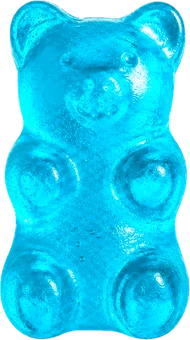
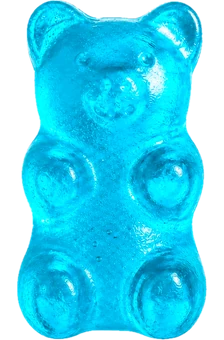
Calm the spin on impact, size the bears alike, and add five more
The wild spin was the collision. It took the head-on part of a blow and
multiplied it by six with nothing to cap it, so two bears meeting hard
could come out turning thousands of degrees a second. Spin now comes off
the glancing part instead — two bears meeting square should stop, not
pirouette — at a fraction of the rate, and is clamped both per hit and
in total, so a scrum cannot wind one up. A throw's own spin came down
with it, and spin bleeds off faster. Measured across a hard throw into
the pack: the fastest anything turns is now under half a turn a second,
against thousands before.

They are all one size. That needed the images fixed, not the CSS:
trimmed to their own edges the two bear shots had two aspect ratios, so
a single width rendered the narrower one taller. tools/cutout.js takes a
box width now and pads each cut-out out to it, centred, so they share an
aspect ratio and one width really is one size. Every bear measures the
same on the page.

Fifteen of them, up from ten, spread around the headline rather than
piled at the corners — none of them meets it at 1440, 1200 or 1000px,
and the four that flank it still step aside on narrow screens, leaving
eleven.

Claude-Session: https://claude.ai/code/session_01PF86o1aScFveFhBRGSKkVz

diff --git a/index.html b/index.html
@@ -93,39 +93,54 @@
 
   <!-- HERO -->
   <section class="hero" aria-label="Introduction">
-    <!-- Real gummy bears, cut out to alpha. They float, and can be picked up,
-         thrown, and knocked into each other: js/hero-candy.js. Decorative, so
-         the whole layer is aria-hidden and every image has an empty alt. -->
+    <!-- Real gummy bears, cut out to alpha, all to one size. They float, and
+         can be picked up, thrown, and knocked into each other: js/hero-candy.js.
+         Decorative, so the layer is aria-hidden and every image has empty alt. -->
     <div class="hero-candy" id="heroCandy" aria-hidden="true">
-      <span class="cy" style="--x:3%;--y:11%;--w:6vw;--r:-14deg;--f:9s;--d:.10s">
-        <span class="cy-b"><span class="cy-s"><img class="cy-i" src="/assets/candy/gummy-red.webp" alt="" width="211" height="340" decoding="async" fetchpriority="low"></span></span>
+      <span class="cy" style="--x:2%;--y:15%;--r:-14deg;--f:9s;--d:.06s">
+        <span class="cy-b"><span class="cy-s"><img class="cy-i" src="/assets/candy/gummy-red.webp" alt="" width="224" height="340" decoding="async" fetchpriority="low"></span></span>
       </span>
-      <span class="cy" style="--x:19%;--y:4%;--w:4.2vw;--r:21deg;--f:11s;--d:.18s">
-        <span class="cy-b"><span class="cy-s"><img class="cy-i flip" src="/assets/candy/gummy-yellow.webp" alt="" width="211" height="340" decoding="async" fetchpriority="low"></span></span>
+      <span class="cy" style="--x:14%;--y:3%;--r:21deg;--f:11s;--d:.12s">
+        <span class="cy-b"><span class="cy-s"><img class="cy-i flip" src="/assets/candy/gummy-yellow.webp" alt="" width="224" height="340" decoding="async" fetchpriority="low"></span></span>
       </span>
-      <span class="cy" style="--rx:31%;--y:5%;--w:4.4vw;--r:-9deg;--f:8.5s;--d:.26s">
-        <span class="cy-b"><span class="cy-s"><img class="cy-i" src="/assets/candy/gummy-pink.webp" alt="" width="211" height="340" decoding="async" fetchpriority="low"></span></span>
+      <span class="cy" style="--x:28%;--y:13%;--r:-7deg;--f:8.5s;--d:.18s">
+        <span class="cy-b"><span class="cy-s"><img class="cy-i" src="/assets/candy/gummy-pink.webp" alt="" width="224" height="340" decoding="async" fetchpriority="low"></span></span>
       </span>
-      <span class="cy" style="--rx:6%;--y:13%;--w:6.4vw;--r:16deg;--f:10.5s;--d:.34s">
-        <span class="cy-b"><span class="cy-s"><img class="cy-i" src="/assets/candy/gummy-blue.webp" alt="" width="190" height="340" decoding="async" fetchpriority="low"></span></span>
+      <span class="cy" style="--rx:33%;--y:4%;--r:11deg;--f:10.5s;--d:.24s">
+        <span class="cy-b"><span class="cy-s"><img class="cy-i flip" src="/assets/candy/gummy-blue.webp" alt="" width="224" height="340" decoding="async" fetchpriority="low"></span></span>
       </span>
-      <span class="cy mid" style="--x:0%;--y:42%;--w:5vw;--r:24deg;--f:9.5s;--d:.42s">
-        <span class="cy-b"><span class="cy-s"><img class="cy-i flip" src="/assets/candy/gummy-orange.webp" alt="" width="211" height="340" decoding="async" fetchpriority="low"></span></span>
+      <span class="cy" style="--rx:19%;--y:14%;--r:-19deg;--f:12s;--d:.30s">
+        <span class="cy-b"><span class="cy-s"><img class="cy-i" src="/assets/candy/gummy-green.webp" alt="" width="224" height="340" decoding="async" fetchpriority="low"></span></span>
       </span>
-      <span class="cy mid" style="--rx:0%;--y:48%;--w:5.4vw;--r:-19deg;--f:12s;--d:.50s">
-        <span class="cy-b"><span class="cy-s"><img class="cy-i" src="/assets/candy/gummy-green.webp" alt="" width="190" height="340" decoding="async" fetchpriority="low"></span></span>
+      <span class="cy" style="--rx:3%;--y:6%;--r:16deg;--f:9.5s;--d:.36s">
+        <span class="cy-b"><span class="cy-s"><img class="cy-i flip" src="/assets/candy/gummy-orange.webp" alt="" width="224" height="340" decoding="async" fetchpriority="low"></span></span>
       </span>
-      <span class="cy" style="--x:5%;--by:9%;--w:6.2vw;--r:8deg;--f:10s;--d:.58s">
-        <span class="cy-b"><span class="cy-s"><img class="cy-i flip" src="/assets/candy/gummy-green.webp" alt="" width="190" height="340" decoding="async" fetchpriority="low"></span></span>
+      <span class="cy mid" style="--x:0%;--y:37%;--r:24deg;--f:10s;--d:.42s">
+        <span class="cy-b"><span class="cy-s"><img class="cy-i" src="/assets/candy/gummy-red.webp" alt="" width="224" height="340" decoding="async" fetchpriority="low"></span></span>
       </span>
-      <span class="cy" style="--x:25%;--by:3%;--w:4.4vw;--r:-24deg;--f:8s;--d:.66s">
-        <span class="cy-b"><span class="cy-s"><img class="cy-i" src="/assets/candy/gummy-orange.webp" alt="" width="211" height="340" decoding="async" fetchpriority="low"></span></span>
+      <span class="cy mid" style="--x:4%;--y:58%;--r:-11deg;--f:8s;--d:.48s">
+        <span class="cy-b"><span class="cy-s"><img class="cy-i flip" src="/assets/candy/gummy-yellow.webp" alt="" width="224" height="340" decoding="async" fetchpriority="low"></span></span>
       </span>
-      <span class="cy" style="--rx:26%;--by:6%;--w:5.8vw;--r:13deg;--f:11.5s;--d:.74s">
-        <span class="cy-b"><span class="cy-s"><img class="cy-i flip" src="/assets/candy/gummy-red.webp" alt="" width="211" height="340" decoding="async" fetchpriority="low"></span></span>
+      <span class="cy mid" style="--rx:0%;--y:41%;--r:-22deg;--f:11.5s;--d:.54s">
+        <span class="cy-b"><span class="cy-s"><img class="cy-i" src="/assets/candy/gummy-pink.webp" alt="" width="224" height="340" decoding="async" fetchpriority="low"></span></span>
       </span>
-      <span class="cy" style="--rx:3%;--by:13%;--w:4.8vw;--r:-6deg;--f:9.2s;--d:.82s">
-        <span class="cy-b"><span class="cy-s"><img class="cy-i" src="/assets/candy/gummy-yellow.webp" alt="" width="211" height="340" decoding="async" fetchpriority="low"></span></span>
+      <span class="cy mid" style="--rx:5%;--y:62%;--r:9deg;--f:9.2s;--d:.60s">
+        <span class="cy-b"><span class="cy-s"><img class="cy-i flip" src="/assets/candy/gummy-blue.webp" alt="" width="224" height="340" decoding="async" fetchpriority="low"></span></span>
+      </span>
+      <span class="cy" style="--x:2%;--by:7%;--r:8deg;--f:10.8s;--d:.66s">
+        <span class="cy-b"><span class="cy-s"><img class="cy-i" src="/assets/candy/gummy-green.webp" alt="" width="224" height="340" decoding="async" fetchpriority="low"></span></span>
+      </span>
+      <span class="cy" style="--x:16%;--by:15%;--r:-25deg;--f:8.8s;--d:.72s">
+        <span class="cy-b"><span class="cy-s"><img class="cy-i flip" src="/assets/candy/gummy-orange.webp" alt="" width="224" height="340" decoding="async" fetchpriority="low"></span></span>
+      </span>
+      <span class="cy" style="--x:31%;--by:4%;--r:13deg;--f:11.8s;--d:.78s">
+        <span class="cy-b"><span class="cy-s"><img class="cy-i" src="/assets/candy/gummy-red.webp" alt="" width="224" height="340" decoding="async" fetchpriority="low"></span></span>
+      </span>
+      <span class="cy" style="--rx:27%;--by:13%;--r:-6deg;--f:9.8s;--d:.84s">
+        <span class="cy-b"><span class="cy-s"><img class="cy-i flip" src="/assets/candy/gummy-yellow.webp" alt="" width="224" height="340" decoding="async" fetchpriority="low"></span></span>
+      </span>
+      <span class="cy" style="--rx:8%;--by:5%;--r:18deg;--f:10.2s;--d:.90s">
+        <span class="cy-b"><span class="cy-s"><img class="cy-i" src="/assets/candy/gummy-pink.webp" alt="" width="224" height="340" decoding="async" fetchpriority="low"></span></span>
       </span>
     </div>
 

diff --git a/tools/cutout.js b/tools/cutout.js
@@ -2,7 +2,7 @@
 /* ============================================================
    Cut a product shot out of its flat backdrop.
 
-     node tools/cutout.js <in.png> <out.webp> [maxPx] [hueDeg] [bright] [sat]
+     node tools/cutout.js <in.png> <out.webp> [maxPx] [hueDeg] [bright] [sat] [boxW]
 
    Written for candy shots that arrive on a white or chequerboard
    backdrop rather than on real alpha. It floods in from the edges,
@@ -17,13 +17,19 @@
    there because hue alone is not enough in places: a red rotated
    towards yellow lands muddy, because yellow carries more light
    than red at the same value.
+
+   boxW pads the finished cutout out to a fixed width, centred.
+   Two subjects trimmed to their own edges have their own aspect
+   ratios, so laying them out at one width renders them at two
+   different sizes. Padded to a common box they share an aspect
+   ratio, and one width means one size.
    ============================================================ */
 const sharp = require('sharp');
 
 const BRIGHT = 222;   /* a backdrop pixel is at least this light   */
 const FLAT   = 16;    /* ...and this close to grey                 */
 
-async function cutout(src, dest, max = 640, hue = 0, bright = 1, sat = 1){
+async function cutout(src, dest, max = 640, hue = 0, bright = 1, sat = 1, boxW = 0){
   const { data, info } = await sharp(src).ensureAlpha().raw().toBuffer({ resolveWithObject: true });
   const { width: w, height: h } = info;
   const n = w * h;
@@ -77,18 +83,28 @@ async function cutout(src, dest, max = 640, hue = 0, bright = 1, sat = 1){
   if(hue || bright !== 1 || sat !== 1)
     out = sharp(await out.modulate({ hue, brightness: bright, saturation: sat }).png().toBuffer());
 
-  await out
+  out = out
     .trim()                                     /* crop to what is left */
-    .resize({ width: max, height: max, fit: 'inside', withoutEnlargement: true })
-    .webp({ quality: 88, alphaQuality: 92, effort: 6 })
-    .toFile(dest);
+    .resize({ width: max, height: max, fit: 'inside', withoutEnlargement: true });
+
+  if(boxW){
+    const t = await out.png().toBuffer();
+    const { width } = await sharp(t).metadata();
+    const pad = Math.max(0, boxW - width);
+    out = sharp(t).extend({
+      left: Math.floor(pad / 2), right: Math.ceil(pad / 2),
+      background: { r: 0, g: 0, b: 0, alpha: 0 }
+    });
+  }
+
+  await out.webp({ quality: 88, alphaQuality: 92, effort: 6 }).toFile(dest);
 
   const m = await sharp(dest).metadata();
   console.log(dest, m.width + 'x' + m.height, 'alpha:', m.hasAlpha,
     (hue || bright !== 1 || sat !== 1) ? '(hue ' + hue + ' bright ' + bright + ' sat ' + sat + ')' : '');
 }
 
-const [,, src, dest, max, hue, bright, sat] = process.argv;
-if(!src || !dest){ console.error('usage: node tools/cutout.js <in> <out.webp> [maxPx] [hueDeg] [bright] [sat]'); process.exit(1); }
-cutout(src, dest, max ? +max : 640, hue ? +hue : 0, bright ? +bright : 1, sat ? +sat : 1)
+const [,, src, dest, max, hue, bright, sat, boxW] = process.argv;
+if(!src || !dest){ console.error('usage: node tools/cutout.js <in> <out.webp> [maxPx] [hueDeg] [bright] [sat] [boxW]'); process.exit(1); }
+cutout(src, dest, max ? +max : 640, hue ? +hue : 0, bright ? +bright : 1, sat ? +sat : 1, boxW ? +boxW : 0)
   .catch(e => { console.error(e.message); process.exit(1); });

diff --git a/js/hero-candy.js b/js/hero-candy.js
@@ -27,11 +27,13 @@
 
   const CFG = {
     drag:     .0022,   /* velocity lost per ms — what brings a throw to rest */
-    spinDrag: .0026,
+    spinDrag: .004,
     bounce:   .62,     /* speed kept off a wall */
     hitBounce:.74,     /* speed kept off another bear */
     maxSpeed: 4.2,     /* px/ms, so one hard flick cannot send it into orbit */
-    spinFrom: .55,     /* how much of a throw's speed becomes spin */
+    spinFrom: .11,     /* deg/ms of spin per px/ms of throw */
+    hitSpin:  .045,    /* deg/ms per px/ms of a glancing blow */
+    maxSpin:  .34,     /* deg/ms — about a turn a second, and never more */
     stop:     .012,    /* below this it is considered still */
 
     /* a circle stands in for the bear. Inset, because a bear is not one:
@@ -116,6 +118,7 @@
       const keep = Math.max(0, 1 - CFG.drag * dt);
       s.vx *= keep; s.vy *= keep;
       s.vr *= Math.max(0, 1 - CFG.spinDrag * dt);
+      s.vr = clamp(s.vr, -CFG.maxSpin, CFG.maxSpin);
 
       if(Math.abs(s.vx) < CFG.stop && Math.abs(s.vy) < CFG.stop){ s.vx = 0; s.vy = 0; }
       if(Math.abs(s.vr) < .02) s.vr = 0;
@@ -163,8 +166,15 @@
         if(rv >= 0) continue;
 
         const imp = -(1 + CFG.hitBounce) * rv / sum;
-        if(wa){ A.vx -= imp * wb * nx; A.vy -= imp * wb * ny; A.vr -= rv * 6; }
-        if(wb){ B.vx += imp * wa * nx; B.vy += imp * wa * ny; B.vr += rv * 6; }
+
+        /* Spin comes off the glancing part of the blow, not the head-on part:
+           two bears meeting square should stop, not pirouette. Clamped both
+           per hit and in total, so a scrum cannot wind one up. */
+        const rt = (B.vx - A.vx) * -ny + (B.vy - A.vy) * nx;
+        const twist = clamp(rt * CFG.hitSpin, -CFG.maxSpin, CFG.maxSpin);
+
+        if(wa){ A.vx -= imp * wb * nx; A.vy -= imp * wb * ny; A.vr = clamp(A.vr - twist, -CFG.maxSpin, CFG.maxSpin); }
+        if(wb){ B.vx += imp * wa * nx; B.vy += imp * wa * ny; B.vr = clamp(B.vr + twist, -CFG.maxSpin, CFG.maxSpin); }
 
         const force = Math.abs(rv);
         hit(A, nx, ny, force); hit(B, nx, ny, force);
@@ -249,7 +259,7 @@
       const sp = Math.hypot(vx, vy);
       if(sp > CFG.maxSpeed){ vx = vx / sp * CFG.maxSpeed; vy = vy / sp * CFG.maxSpeed; }
       s.vx = vx; s.vy = vy;
-      s.vr = clamp(vx * CFG.spinFrom * 12, -1.1, 1.1);   /* thrown sideways, it rolls */
+      s.vr = clamp(vx * CFG.spinFrom, -CFG.maxSpin, CFG.maxSpin);   /* thrown sideways, it rolls */
       wake();
     }
 

diff --git a/css/site.css b/css/site.css
@@ -114,7 +114,11 @@ section:first-of-type{padding-top:clamp(40px,6vw,80px)}
 .hero-candy{position:absolute;inset:0;z-index:2;pointer-events:none}
 .cy{
 position:absolute;left:var(--x,auto);right:var(--rx,auto);top:var(--y,auto);bottom:var(--by,auto);
-width:clamp(38px,var(--w),96px);
+/* one size for all of them. The cut-outs are padded to a common box by
+   tools/cutout.js, so one width really is one size — trimmed to their own
+   edges they would each have their own aspect ratio, and one width would
+   render a narrow bear taller than a wide one. */
+width:clamp(40px,4.6vw,74px);
 transform:translate3d(var(--tx,0px),var(--ty,0px),0);
 opacity:0;transition:opacity 1s var(--ease) var(--d,0s);
 pointer-events:auto;touch-action:none;cursor:grab;
